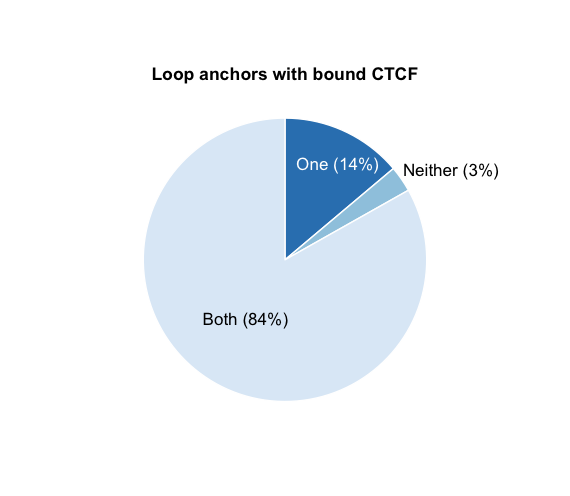
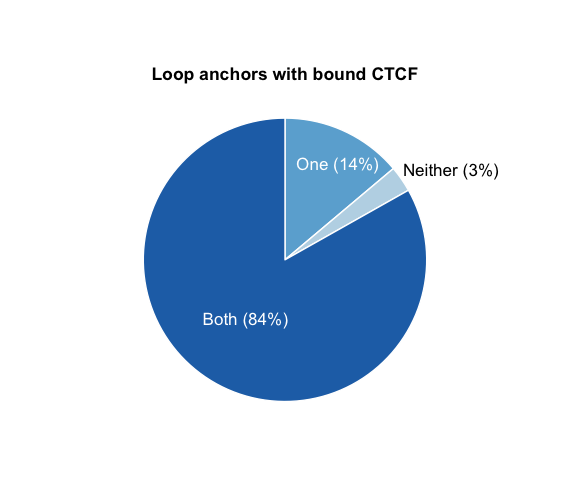
Update plot with better color order

Changed region(s): [[0.2386, 0.2419, 0.7456, 0.8165]]

diff --git a/README.md b/README.md
@@ -92,13 +92,13 @@ library(ggplot2)
 ggplot(data = df, aes(x = 1, y = percent, fill = group))+
   geom_col(col = "white")+
   coord_polar("y") + 
-  scale_fill_brewer("Blues")+
+  scale_fill_manual(values = c("#2171b5", "#bdd7e7", "#6baed6"))+
   labs(title = "Loop anchors with bound CTCF")+
   annotate(geom = "text",
            x = c(1.0, 1.25, 1.75),
            y = c(60, 8, 17.25),
            label = paste0(df$group, " (", df$percent, "%)"),
-           col = c("black", "white", "black"),
+           col = c("white", "white", "black"),
            size = 4.5)+
   theme_void()+
   theme(
